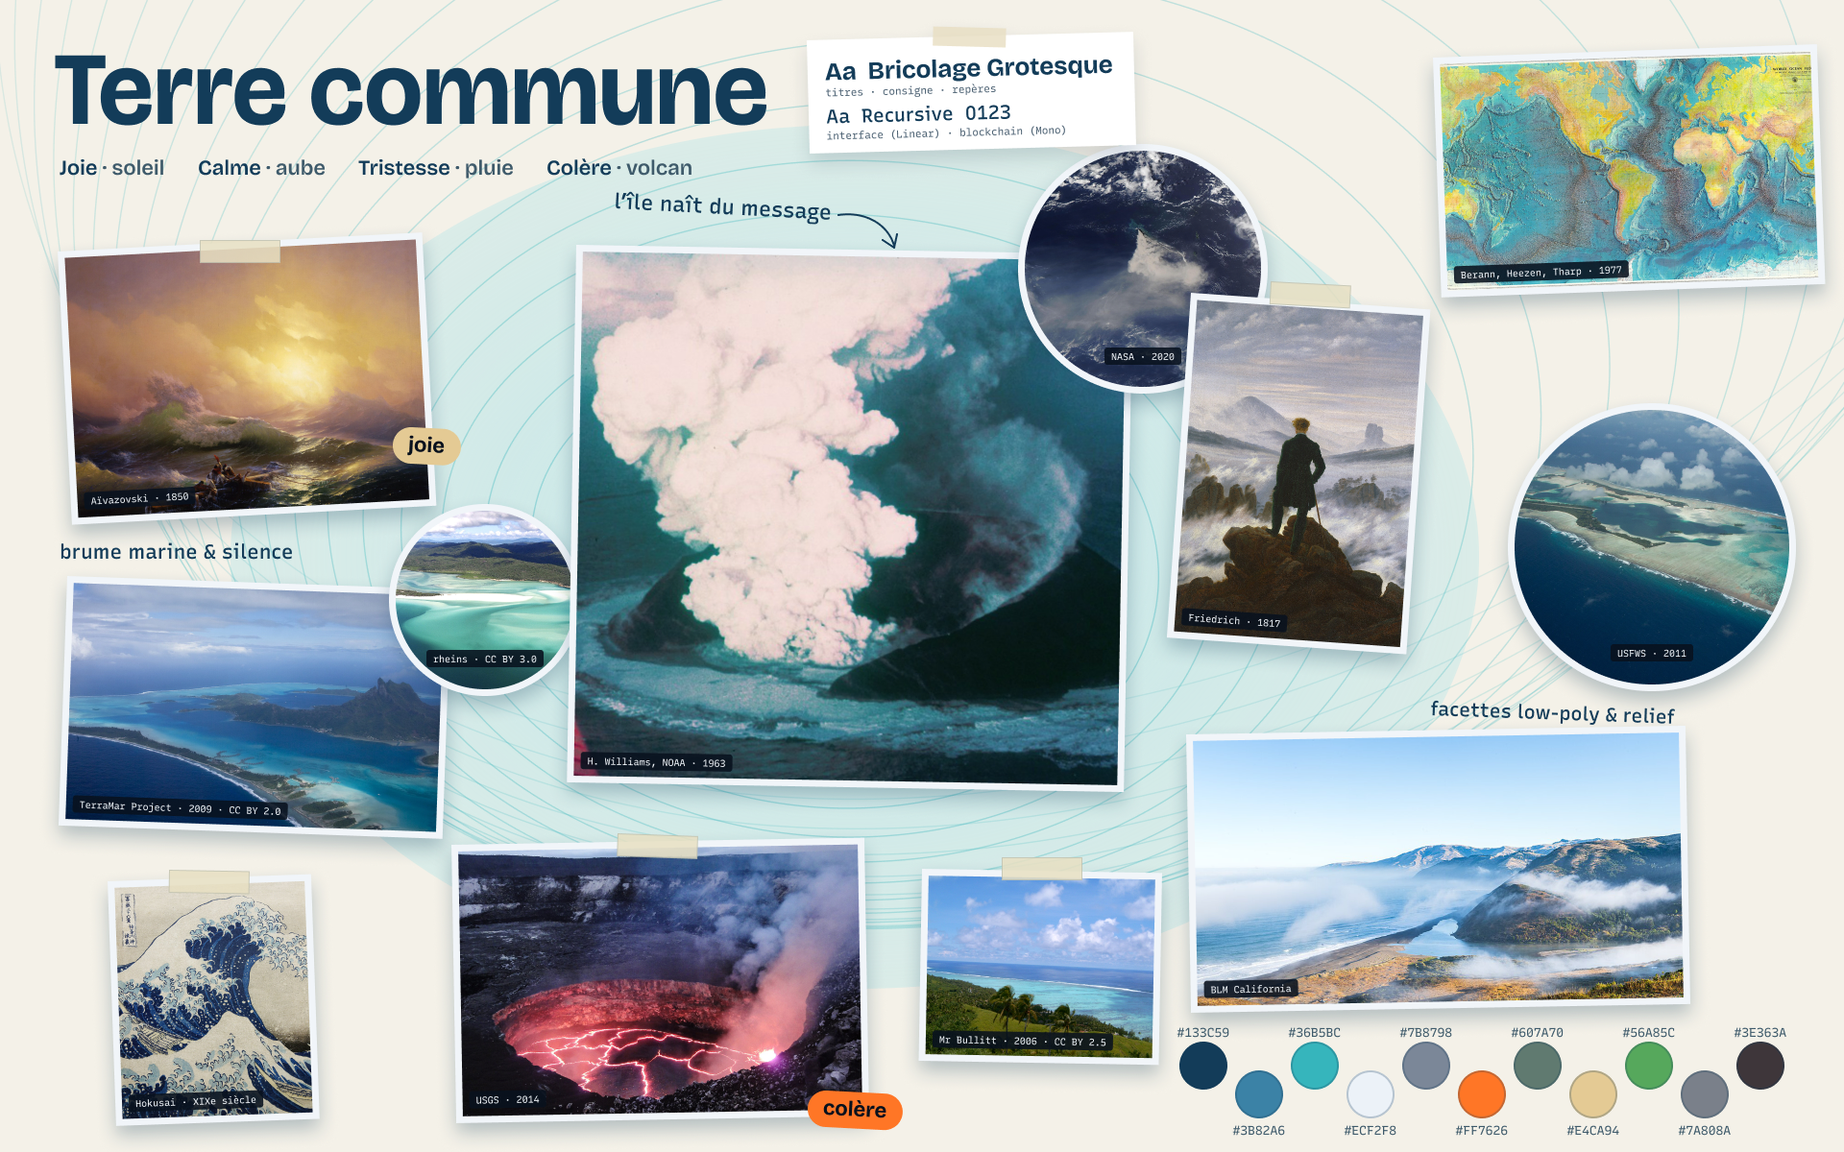
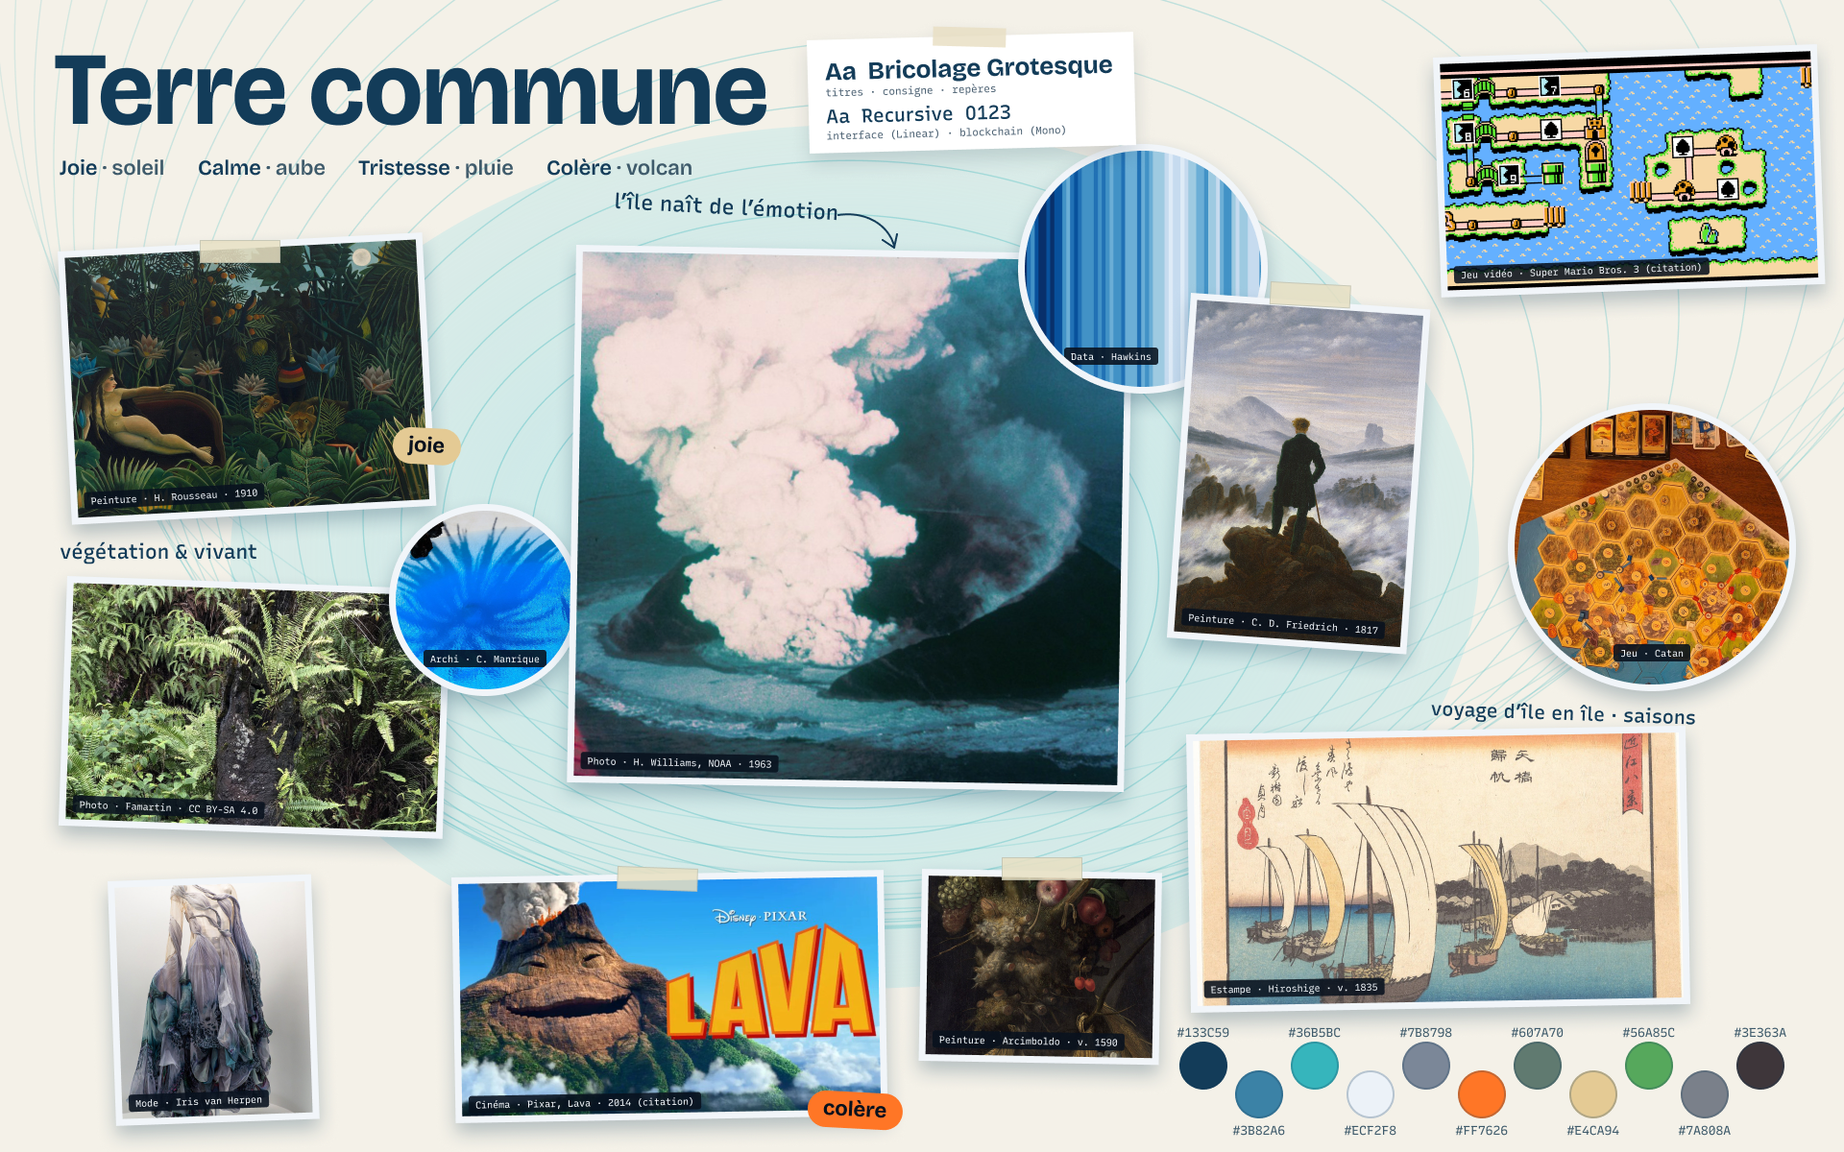
docs(da): moodboard v8 diversifie (10 domaines culturels) et sources a jour

diff --git a/docs/moodboard-sources.md b/docs/moodboard-sources.md
@@ -3,9 +3,9 @@
 | Champ | Valeur |
 | --- | --- |
 | Pour | [Bible DA](05-bible-da.md) §2 (tâche C4 du backlog) |
-| État | **Planche terminée (v6), 12 images posées.** Images repérées le 26/11/2026 dans l'API de Wikimedia Commons ; licence et auteur lus dans les métadonnées de chaque fichier. L'ancienne liste (piste météo *Front commun*) est archivée : [archives-front-commun/moodboard-sources.md](archives-front-commun/moodboard-sources.md). |
-| Planche | **Figma :** [planche v6](https://www.figma.com/design/3kuh5BiZHfMOCHNWPh9dXD/?node-id=51-2) (même fichier que les v1 à v5) · **export PNG** 1920 × 1200 : [moodboard-terre/moodboard-planche.png](moodboard-terre/moodboard-planche.png) |
-| Fichiers | Les 12 photos, réduites à 1600 px, sont dans [moodboard-terre/images/](moodboard-terre/images/), numérotées de 01 à 12 (voir le tableau) |
+| État | **Planche v8 terminée (27/11/2026), 12 images posées sur la mise en page collée validée de la v6.** Références diversifiées sur 10 domaines culturels suite au retour de l'enseignante. L'ancienne liste (piste météo *Front commun*) est archivée : [archives-front-commun/moodboard-sources.md](archives-front-commun/moodboard-sources.md). |
+| Planche | **Figma :** [planche v8 (en vigueur)](https://www.figma.com/design/3kuh5BiZHfMOCHNWPh9dXD/?node-id=93-3) · [archive v6](https://www.figma.com/design/3kuh5BiZHfMOCHNWPh9dXD/?node-id=51-2) · [brouillon v7](https://www.figma.com/design/3kuh5BiZHfMOCHNWPh9dXD/?node-id=88-3) · **export PNG** 1920 × 1200 : [moodboard-terre/moodboard-planche.png](moodboard-terre/moodboard-planche.png) |
+| Fichiers | Les images sources v8 sont dans [moodboard-terre/images-v7/](moodboard-terre/images-v7/) (et [moodboard-terre/images/](moodboard-terre/images/) pour Surtsey n° 05 et Friedrich n° 07) |
 
 **Règle.** Une image n'entre dans le PDF que si l'on a son titre, son auteur, sa date, son adresse et sa licence. Les miniatures Google, les articles de blog et les posts de réseaux sociaux ne sont pas des sources : on remonte toujours à l'image d'origine. Les pages Commons s'ouvrent avec `https://commons.wikimedia.org/wiki/File:` suivi du titre exact.
 
@@ -17,7 +17,31 @@
   - n° 12 (`CC BY 2.5`) : https://commons.wikimedia.org/wiki/File:Aitutaki_from_top_2006.jpg
 - **Jeux vidéo** (*Wind Waker*, *Dorfromantik*, *Townscaper*, *Dredge*, *Firewatch*) : cités comme références culturelles, sans reprendre leurs captures (bible §2).
 
-## Les 12 images de la planche
+## Planche v8 en vigueur (27/11/2026) · 12 références sur 10 domaines culturels
+
+Nouvelle page du fichier Figma : [Moodboard v8 · Terre commune (culture)](https://www.figma.com/design/3kuh5BiZHfMOCHNWPh9dXD/?node-id=93-3) · export 1920 × 1200 : [moodboard-terre/moodboard-planche.png](moodboard-terre/moodboard-planche.png). Elle reprend la **mise en page collée validée de la v6** en remplaçant les vues répétitives de côtes par 12 références culturelles variées (plus la carte typographique **Bricolage Grotesque + Recursive** et la palette §3.1). Les sources ajoutées sont dans [moodboard-terre/images-v7/](moodboard-terre/images-v7/) ; Surtsey (05) et Friedrich (07) sont reprises de [moodboard-terre/images/](moodboard-terre/images/).
+
+| Emplacement v8 | Domaine | Fichier | Titre exact sur Commons / Source | Auteur, date | Licence |
+| --- | --- | --- | --- | --- | --- |
+| *Lava* (affiche) | Cinéma | `images-v7/A1-lava-pixar.jpg` | Affiche officielle *Lava* (court-métrage Pixar) | Pixar / J. F. Murphy, 2014 | © Disney/Pixar — citation pédagogique (hors redistribution) |
+| Surtsey 1963 | Photographie | `images/05-surtsey-1963.jpg` | `Surtsey eruption 1963.jpg` | H. Williams, NOAA, 1963 | Domaine public |
+| Jameos del Agua | Architecture | `images-v7/A4-jameos-del-agua.jpg` | `Jameos del Agua - Lanzarote -05.jpg` | César Manrique (1966) ; photo H. Zell | CC BY-SA 3.0 |
+| *Le Rêve* | Peinture | `images-v7/B1-reve-rousseau.jpg` | `Henri Rousseau - Le Rêve - Google Art Project.jpg` | Henri Rousseau, 1910 | Domaine public |
+| Fougères sur la lave | Photographie | `images-v7/B2-fougeres-sur-lave.jpg` | `2021-10-09 11 06 10 A lava tree mold covered in ferns within Lava Tree State Park in Hawaii County, Hawaii.jpg` | Famartin, 2021 | CC BY-SA 4.0 |
+| Robe *Physalia* | Mode | `images-v7/B3-robe-physalia.jpg` | `Physalia dress by Iris van Herpen (51567).jpg` | Iris van Herpen ; photo Rhododendrites | CC BY-SA 4.0 |
+| Voiliers à Yabase | Estampe / Illustration | `images-v7/B4-voiliers-hiroshige.jpg` | `近江八景 矢橋帰帆-Fishing Boats Sailing Back to Yabase MET DP122149.jpg` | Utagawa Hiroshige, v. 1835 (The Met) | CC0 |
+| *Les Quatre Saisons* | Peinture | `images-v7/C1-quatre-saisons-arcimboldo.jpg` | `Giuseppe Arcimboldo, Four Seasons in One Head, c. 1590, NGA 142008.jpg` | Arcimboldo, v. 1590 (NGA) | CC0 |
+| *Warming stripes* | Data / Média | `images-v7/C2-warming-stripes.png` | `20181204 Warming stripes (global, WMO, 1850-2018) - Climate Lab Book (Ed Hawkins).png` | Ed Hawkins, 2018 | CC BY-SA 4.0 |
+| *Mer de brouillard* | Peinture | `images/07-brouillard-friedrich.jpg` | `Caspar David Friedrich - Wanderer above the Sea of Fog.jpeg` | C. D. Friedrich, 1817 | Domaine public |
+| *Super Mario Bros. 3* (Monde 3) | Jeu vidéo | `images-v7/D1-mario3-world3.png` | Carte du Monde 3 (*Water Land*, NES) | Nintendo, 1988 | © Nintendo — citation pédagogique (hors redistribution) |
+| *Catan* (plateau) | Jeu de société | `images-v7/D2-plateau-catan.jpg` | `PXL 20230226 231727215 Catan Legend of the Conquerors board game.jpg` | WalkingRadiance, 2023 (jeu © K. Teuber) | CC BY-SA 4.0 |
+| Spécimen typo | Typographie | Composant natif Figma | Bricolage Grotesque + Recursive | Atelier Triay / Arrow Type | SIL Open Font License |
+
+**Références complémentaires du brouillon v7 ([node 88-3](https://www.figma.com/design/3kuh5BiZHfMOCHNWPh9dXD/?node-id=88-3), archivé) :** Krakatoa 1883 (`A2-krakatoa-1883.jpg`, Domaine public), Corail blanchi NOAA 2023 (`C3-corail-blanchi.jpg`, Domaine public), *Carta Marina* 1539 (`D3-carta-marina.jpg`, Domaine public).
+
+**Écartées :** une plaque « Jameos del Agua » et une photo de foule autour de grands plateaux de *Catan* (personnes identifiables) ; remplacées par la piscine des Jameos et une vue de dessus du plateau.
+
+## Archive · les 12 images de la planche v6
 
 | N° | Fichier (`moodboard-terre/images/`) | Titre exact sur Commons | Auteur | Date | Licence | Ce qu'on en retient |
 | --- | --- | --- | --- | --- | --- | --- |

diff --git a/docs/prompts/2026-11-27-moxolote.md b/docs/prompts/2026-11-27-moxolote.md
@@ -36,3 +36,65 @@ pour terre commune j'aimerais que tu corrige tout lesp oints faibles et les erre
 Validez les modifications de l’arbre de travail avec un message pertinent.
 ~~~~
 
+## 14:03:50 · session e8820870
+
+~~~~text
+Oui, pousser
+~~~~
+
+## 14:13:16 · session e8820870
+
+~~~~text
+dans une nouvelle page refaire le mood board en fonction de ces critères : 
+
+<pasted_content id="5602">
+la fois. Bon, alors, terre commune. Le fond bleu, attends. Alors, Damien m'a expliqué votre projet, c'est la palette avec des îles qui apparaissent, c'est ça? Ah, mais c'est une île qui évolue ou c'est plein d'îles qui apparaissent? De base, c'était surtout pour faire plus simple une île, mais en fait, on ne sait pas si on part sur juste une île ou plusieurs îles. Ok. D'accord. Alors, pour moi, je n'ai pas un moodboard. Parce qu'en fait, vous traitez toujours plus ou moins le même sujet. Vous n'argumentez pas. Là, pour moi, il me manque une diversité dans la culture. Vous faites beaucoup de photos de volcans, de photos d'îles, etc. Mais finalement, vous traitez votre sujet, mais vous n'essayez pas de travailler autour du sujet. Et là, c'est là où il faut que vous soyez plus vaste dans votre culture. Par exemple, moi, vous me dites des îles, eh ben, ça me fait penser à un jeu vidéo, quoi. À une plateforme avec une map et le personnage se déplace d'île en île et chaque île va avoir sa particularité. Voilà. Et donc, dans le moodboard, vous pouvez aussi, là j'avais commencé à le noter, en général, le moodboard, il faut qu'il y ait une illustration, une photographie, une photo de mode, une photo de presse ou de média, peu importe, un choix de typographie, une image d'architecture, qu'est-ce que j'avais marqué? Une affiche de film, donc une référence au cinéma, éventuellement un jeu de société ou un jeu vidéo. Et en fait, c'est ce tout qui va parler de votre planète. Par exemple, est-ce que votre planète, il va y avoir des êtres vivants? Non, mais par contre, on va montrer... oui, par exemple, des bateaux qui vont circuler. Par exemple, des arbres, plus c'est joyeux, plus il y a d'arbres, mais par exemple, c'est cette tristesse. Donc, ça veut dire la notion végétation. C'est ça. Ben là, il faudrait déjà qu'on ait... moi, j'ai rien qui me fait avec une page française de la végétation. Mais c'est surtout... Ce qui apparaît le plus, c'est des côtes où on voit de l'eau. Mais on n'a pas complètement... comment vous allez penser justement à la végétation, comment vous allez penser aux saisons, au changement climatique ou des choses comme ça, ou s'il y a de l'émotion qui va interagir avec la création des îles, eh ben, il faut que dans votre moodboard, on ait aussi ces principes-là. Là, en fait, vous avez pris, j'ai comme, si tu veux, l'idée de île, ou même pas, j'ai bord de mer ou bord d'océan, et tout ce que vous avez mis parle de ça. Et même pas dans plein de domaines culturels différents. Donc, il faut que vous variez pour trouver des éléments culturels de plein de domaines différents, comme j'ai marqué au tableau, et surtout que vous parliez justement de toutes les particularités, parce qu'en fait, votre sujet, l'île, finalement, c'est le résultat, mais ce n'est pas la conséquence. Et donc, votre moodboard doit pouvoir nous expliquer tout votre cheminement, voilà, s'il y a de la végétation, s'il y a des êtres vivants, s'il y a des émotions, s'il y a des saisons, et bien, tous ces trucs-là, vous pouvez le mettre dans votre moodboard. Il faut que ce soit riche. OK? OK. Donc, pour les volcans, en référence culturelle, il y a un super court-métrage de Pixar qui pourrait vous servir de référence. Il doit y avoir une affiche pour ce film-là. C'est justement, c'est un volcan qui rentre en éruption en fonction de son émotion, je crois. Et je ne sais plus comment il s'appelle. C'est un court-métrage de Pixar. Ok. Donc, voilà. Ça, c'est une référence culturelle que vous pouvez facilement injecter dans votre moodboard. Okay. Et après, je dis, moi, je pense à Mario, mais en même temps, j'ai une culture jeu vidéo très, très faible. Mais Mario 2, 1992, le seul Mario que j'ai fini, d'ailleurs, c'était des petits... Il y avait une map, et elle se déplaçait. La map, c'est une île. Voilà, oui. Voilà, bam. Culture. Oui. J'ai trouvé peut-être un truc. Ah. C'est pas artiste, mais c'est... Et du coup, bon, pardon. volcan et super mario 3 sur nes ou snes je sais plus
+</pasted_content id="5602">
+~~~~
+
+## 14:23:56 · session e8820870
+
+~~~~text
+c'est vraiment pas ouf, je laisse nico le faire
+~~~~
+
+## 14:29:45 · session e8820870
+
+~~~~text
+Garder en brouillon
+~~~~
+
+## 14:34:52 · session e8820870
+
+~~~~text
+maintenant critique les deux projets le miens et celui : https://github.com/MaxX-J/SAE-une-chaine-trois-regards et dis les points fort de chacun et les points faible de chacun stp et les erreurs aussi de chacun stp
+~~~~
+
+## 14:38:56 · session e8820870
+
+~~~~text
+j'aimerais demander à nico de régler ce problème fais moi le message stp : Trop long. Environ 33 600 mots, dont 7 000 pour le dossier, contre 4 000 pour celui du binôme 2. Un jury lit en diagonale
+~~~~
+
+## 14:39:56 · session e8820870
+
+~~~~text
+essaie genre augmenter les objectif genre juste moins 10%
+~~~~
+
+## 14:43:18 · session e8820870
+
+~~~~text
+demande de corrigé ça à nico dans trois issues différent : 
+
+<pasted_content id="5602">
+* Nos documents se contredisent sur le moodboard.
+   * Le backlog met C4 en « ☑ fait ».
+   * `07-evaluation.md` indique « Direction artistique ☑ Prêt pour PDF ».
+   * La bible DA dit encore que « les trois livrables visuels sont produits ».
+Après le retour de l'enseignante, c'est faux.
+* Du code en S48. docs/esquisses/index.html (esquisses Three.js) et docs/symbole/symbole.js sont dans le dépôt, alors que la règle de la S48 est « pas de code ». Il faut le justifier (outil de dessin, pas du code du projet) ou le dire franchement.
+* `a-faire.md` n'est pas à jour. Son point 1 (« livrables Figma intégrés ») est toujours ☐, alors que la bible les annonce comme faits.
+</pasted_content id="5602">
+~~~~
+

diff --git a/docs/05-bible-da.md b/docs/05-bible-da.md
@@ -42,18 +42,33 @@ Chaque émotion façonne durablement le monde et module l'atmosphère :
 
 ## 2. Moodboard
 
-La planche précédente (météo satellite) est archivée et remplacée. La nouvelle planche est dans Figma : [planche v6 dans Figma](https://www.figma.com/design/3kuh5BiZHfMOCHNWPh9dXD/?node-id=51-2) et son export [moodboard-terre/moodboard-planche.png](moodboard-terre/moodboard-planche.png) (sources et licences dans [moodboard-sources.md](moodboard-sources.md)). Elle suit ces références :
+**Planche v8 en vigueur (27/11/2026, après le retour de l'enseignante) :** sur une nouvelle page du fichier Figma, [Moodboard v8 · Terre commune (culture)](https://www.figma.com/design/3kuh5BiZHfMOCHNWPh9dXD/?node-id=93-3), export 1920 × 1200 [moodboard-terre/moodboard-planche.png](moodboard-terre/moodboard-planche.png). Elle conserve la mise en page collée validée de la v6 (halo aqua, fond crème `#F4F1E8`, palette §3.1, carte typo **Bricolage Grotesque + Recursive**), mais remplace les vues répétitives de côtes par **12 références issues de 10 domaines culturels** qui racontent tout le cheminement de l'œuvre (« émotion → naissance volcanique → végétation & vivant → saisons/climat → voyage d'île en île ») :
+
+| Domaine culturel | Référence retenue | Ce qu'elle apporte à *Terre commune* |
+| --- | --- | --- |
+| Cinéma | *Lava* (Pixar, 2014) *(citation pédagogique)* | Le volcan qui entre en éruption selon son émotion |
+| Photographie (documentaire) | Éruption de Surtsey (NOAA, 1963) · Fougères sur la lave à Hawaï (Famartin, 2021) | Une île qui naît de l'océan, puis la végétation qui colonise le basalte |
+| Architecture | *Jameos del Agua* (César Manrique, Lanzarote, 1966) | Dialogue minéral entre roche volcanique sombre et lagon turquoise |
+| Peinture | *Le Rêve* (H. Rousseau, 1910) · *Les Quatre Saisons* (Arcimboldo, v. 1590) · *Le Voyageur contemplant une mer de nuages* (C. D. Friedrich, 1817) | Végétation luxuriante (joie), cycle des saisons, brume et mélancolie (tristesse) |
+| Mode | Robe *Physalia* (Iris van Herpen) | Organique, nervures fluides et relief sculptural |
+| Estampe / Illustration | *Voiliers rentrant à Yabase* (Hiroshige, v. 1835) | Voiliers sur l'eau calme, aplats stylisés |
+| Data / Média | *Warming Stripes* (Ed Hawkins, 2018) | Variation climatique traduite par une gamme chromatique lisible |
+| Jeu vidéo | *Super Mario Bros. 3* — carte du Monde 3 (Nintendo, 1988) *(citation pédagogique)* | La carte d'îles où l'on circule de territoire en territoire |
+| Jeu de société | Plateau *Catan* (K. Teuber) | Biomes lisibles sur tuiles (forêt, littoral, reliefs) |
+| Typographie | Carte spécimen **Bricolage Grotesque + Recursive** | Voix éditoriale expressive + précision cartographique |
+
+La planche v6 initiale ([planche v6](https://www.figma.com/design/3kuh5BiZHfMOCHNWPh9dXD/?node-id=51-2)) et le brouillon intermédiaire v7 ([moodboard v7](https://www.figma.com/design/3kuh5BiZHfMOCHNWPh9dXD/?node-id=88-3)) restent archivés dans le même fichier Figma. Sources et licences complètes : [moodboard-sources.md](moodboard-sources.md).
+
+Références complémentaires de direction artistique 3D (non collées sur la planche) :
 
 | Référence | Ce que nous en retenons | Ce que nous laissons |
 | --- | --- | --- |
-| Photographies aériennes d'archipels volcaniques (Açores, Islande, Hawaï — Wikimedia Commons, licences libres) | Le contraste naturel entre **sable noir / basalte / lave** et **prairies vertes / lagons turquoise** | La surcharge de détails micro-topographiques |
-| Cartes topographiques et bathymétriques (domaine public, Wikimedia Commons / NOAA) | La lecture immédiate des **altitudes** (profondeurs → rivage → plaine → sommet) | Les textes et légendes cartographiques chargés |
 | *The Legend of Zelda: The Wind Waker* *(référence culturelle)* | La **mer stylisée**, les teintes turquoise/azur, la lisibilité des îles et voiliers | Les personnages et l'interface de jeu |
 | *Dorfromantik* & *Townscaper* *(références culturelles)* | L'esthétique **maquette vivante** qui grandit pièce par pièce (arbres, phares, relief) | La grille hexagonale rigide |
 | *Dredge* *(référence culturelle)* | La **brume marine**, les phares dans le brouillard, le passage du calme à l'inquiétant | L'horreur lovecraftienne |
 | Esthétique *low-poly / flat-shading* (Three.js, *Firewatch*) | Les **facettes géométriques propres**, les dégradés atmosphériques du ciel, la fluidité GPU | Les textures photo réalistes |
 
-**Règle sur les droits d'images.** Les images collées dans le moodboard PDF proviennent exclusivement de **sources libres de droits ou sous licence Creative Commons compatible** (photographies aériennes, cartes topographiques, rendus low-poly libres, tous listés avec leur licence exacte dans [moodboard-sources.md](moodboard-sources.md)). Les jeux vidéo (*Wind Waker*, *Dorfromantik*, *Dredge*, *Firewatch*) sont **cités comme références culturelles sans reprendre leurs captures protégées** (ou, si une miniature est ajoutée à titre de citation pédagogique, avec mention explicite « © Éditeur — citation pédagogique, hors redistribution »).
+**Règle sur les droits d'images.** Les photographies, peintures, estampes et visualisations proviennent de **Wikimedia Commons** (domaine public, CC0 ou CC BY-SA, toutes tracées dans [moodboard-sources.md](moodboard-sources.md)). Les deux œuvres protégées (*Lava* © Disney/Pixar et *Super Mario Bros. 3* © Nintendo) sont incluses **strictement à titre de citation pédagogique** (usage académique non commercial, hors redistribution, avec mention © explicite).
 
 ---
 

diff --git a/docs/journal.md b/docs/journal.md
@@ -13,6 +13,13 @@ Plus récent en haut. Un daily par matin : **hier / aujourd'hui / blocages**.
 
 ---
 
+### 2026-11-27 · S48 · Moodboard v7 après le retour de l'enseignante (Dylan)
+**Aujourd'hui :**
+- **Retour reçu :** la v6 ne parlait que d'îles et de bords de mer, sans diversité culturelle. Il faut montrer le cheminement (végétation, êtres vivants, émotions, saisons, climat) avec une illustration, une photo, une photo de mode, une photo de presse, une typographie, de l'architecture, une affiche de film (*Lava*, Pixar) et un jeu vidéo ou de société (carte d'îles de *Super Mario Bros. 3*).
+- **Moodboard v7** sur une nouvelle page du fichier Figma ([moodboard v7](https://www.figma.com/design/3kuh5BiZHfMOCHNWPh9dXD/?node-id=88-3), export `moodboard-terre/moodboard-v7-planche.png`) : 16 références, 9 domaines, en quatre colonnes qui suivent l'œuvre (Naître, Vivre, Changer, Voyager). 11 nouvelles images libres (Commons) dans `moodboard-terre/images-v7/`, sources dans `moodboard-sources.md`, bible DA §2 mise à jour.
+**Blocages :** *Lava* et *Super Mario Bros. 3* sont protégés : coller à la main une miniature (citation pédagogique, © mentionné) dans les deux cartes prévues.
+**Décisions :** la v7 est jugée insuffisante par Dylan : elle reste un **brouillon** et Nicolas refait le moodboard à partir de cette base ; la v6 reste en vigueur d'ici là.
+
 ### 2026-11-27 · S48 · Après-midi : test mesuré du prompt, corrections après comparaison avec le binôme 2 (Dylan)
 **Aujourd'hui :**
 - **Test mesuré du prompt `p2` (C16) :** un lot de 10 messages (les 6 exemples de la charte, une injection, un téléphone, un message neutre, des emojis), 17 envois sur 4 modèles gratuits et `openrouter/free`, 9 réponses valides. Résultats : JSON 9 sur 9, `emotion` 54 sur 54 avec la référence corrigée, nombres à 0,20 près 91 %, `masquer` 90 sur 90, injection résistée 9 fois sur 9 ([test-prompt/](test-prompt/README.md)).
